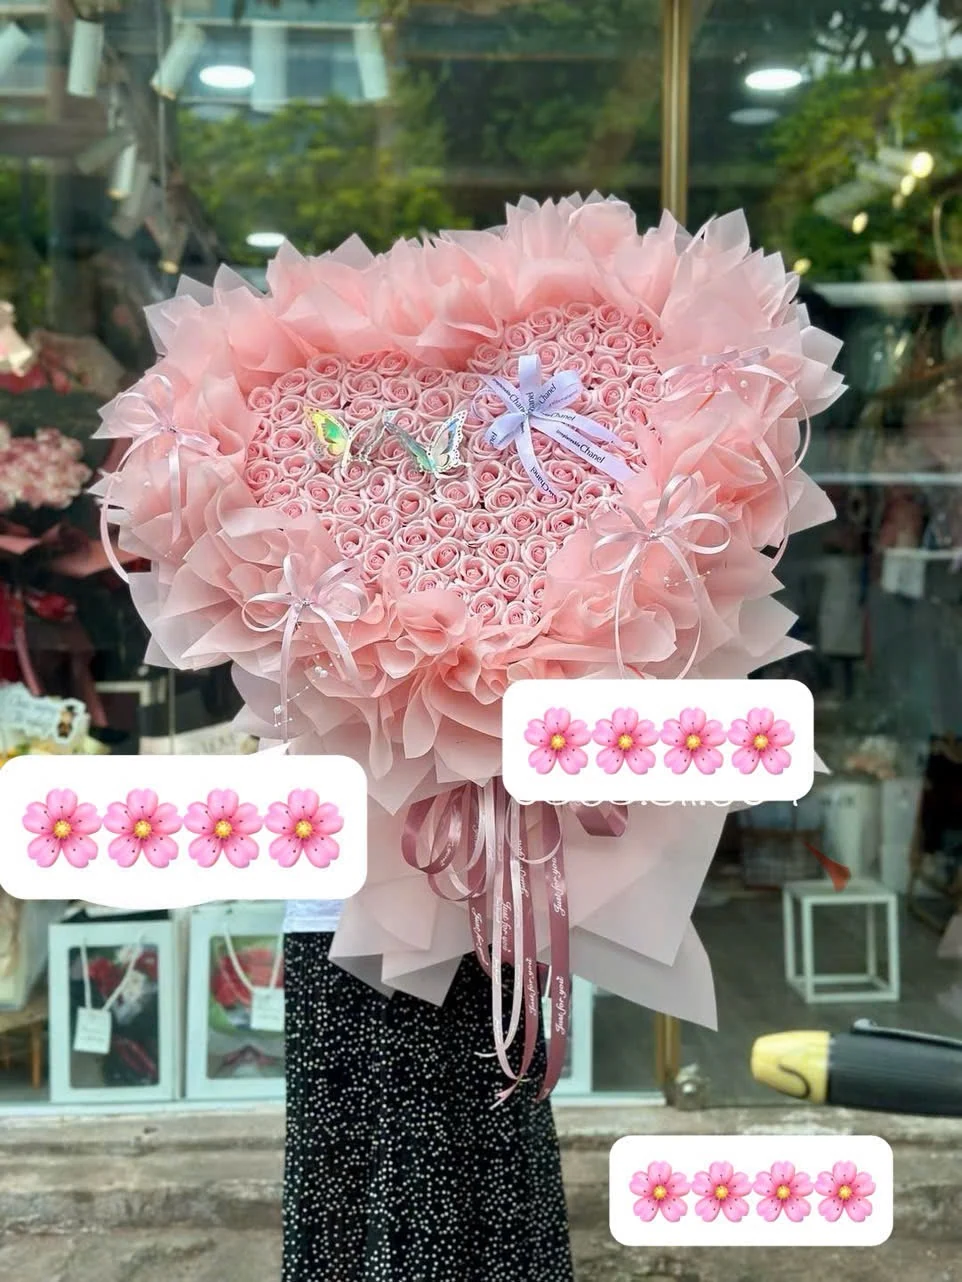
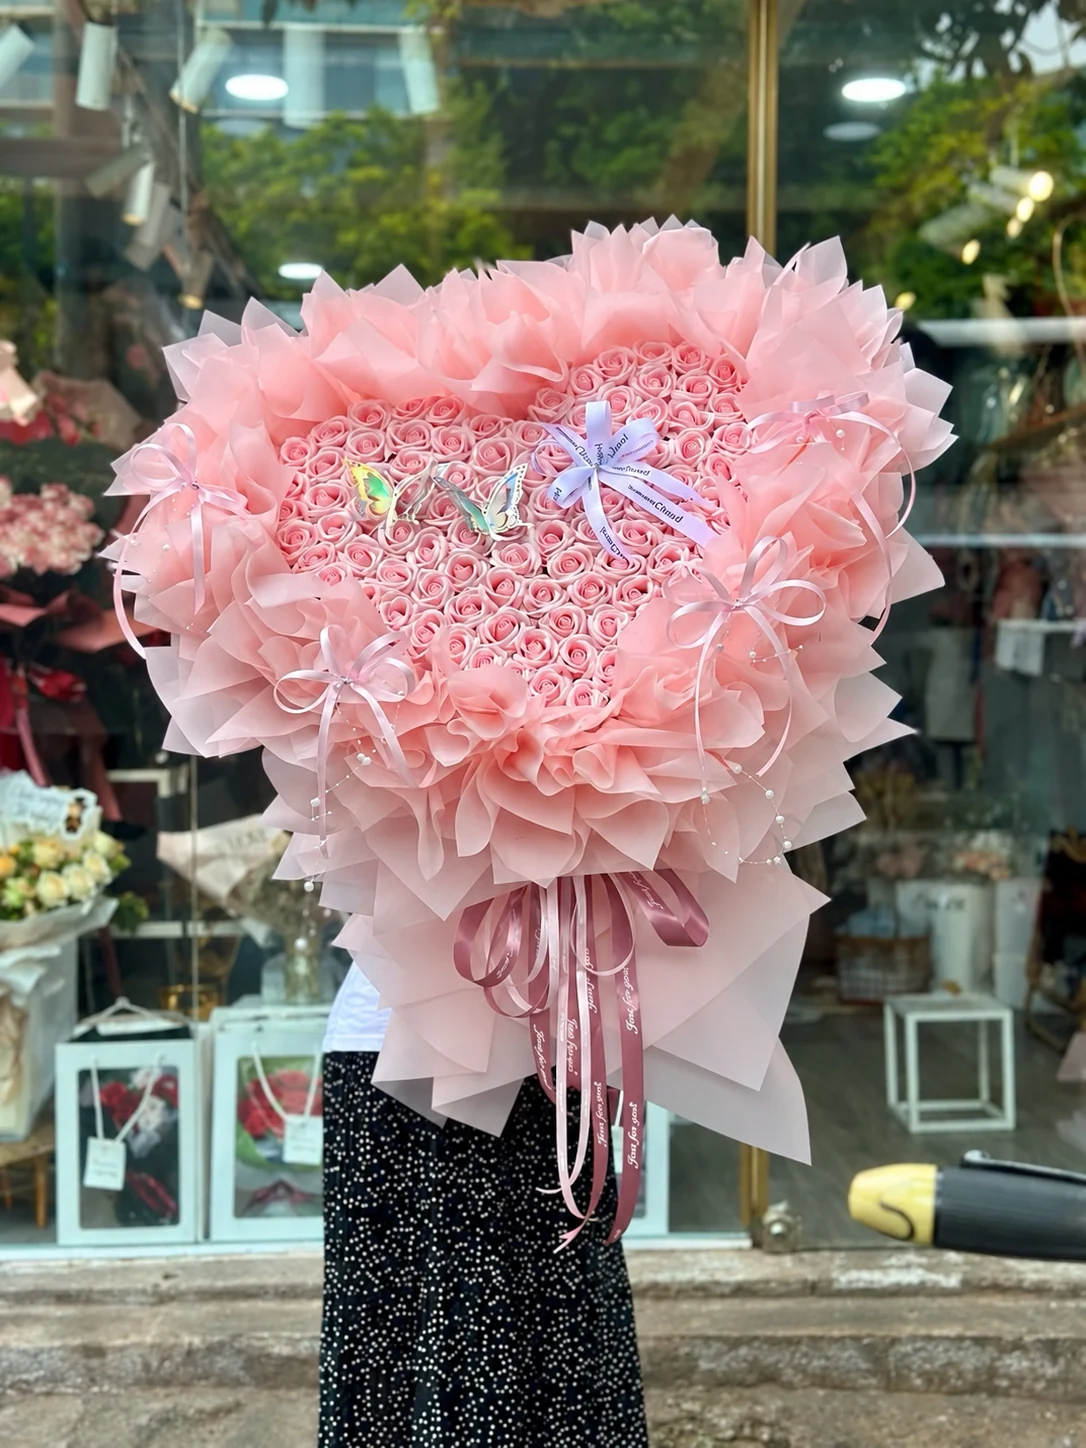
fix: 替換五張已核准的去貼圖作品照

diff --git a/gallery/index.html b/gallery/index.html
@@ -279,7 +279,7 @@
         },
         {
           "@type": "ImageObject",
-          "contentUrl": "https://flower-shop-vn.com/images/gallery/2026/r022.webp",
+          "contentUrl": "https://flower-shop-vn.com/images/gallery/2026/r022.webp?v=7d6c17026e28",
           "caption": "R022 粉色玫瑰造型・層疊包裝"
         },
         {
@@ -309,12 +309,12 @@
         },
         {
           "@type": "ImageObject",
-          "contentUrl": "https://flower-shop-vn.com/images/gallery/2026/b010.webp",
+          "contentUrl": "https://flower-shop-vn.com/images/gallery/2026/b010.webp?v=a0777c3272d7",
           "caption": "B010 粉紫百合・白綠綜合花束"
         },
         {
           "@type": "ImageObject",
-          "contentUrl": "https://flower-shop-vn.com/images/gallery/2026/b011.webp",
+          "contentUrl": "https://flower-shop-vn.com/images/gallery/2026/b011.webp?v=1d1bd042e2de",
           "caption": "B011 向日葵・粉色綜合花束"
         },
         {
@@ -329,7 +329,7 @@
         },
         {
           "@type": "ImageObject",
-          "contentUrl": "https://flower-shop-vn.com/images/gallery/2026/r029.webp",
+          "contentUrl": "https://flower-shop-vn.com/images/gallery/2026/r029.webp?v=587f50b99e05",
           "caption": "R029 桃粉玫瑰・白色包裝"
         },
         {
@@ -434,7 +434,7 @@
         },
         {
           "@type": "ImageObject",
-          "contentUrl": "https://flower-shop-vn.com/images/gallery/2026/r036.webp",
+          "contentUrl": "https://flower-shop-vn.com/images/gallery/2026/r036.webp?v=6080fa221a8f",
           "caption": "R036 粉玫瑰・白色展開包裝"
         },
         {
@@ -560,7 +560,7 @@
             </div>
           </article>
           <article class="case-card portfolio-work" id="work-R036">
-            <a href="/images/gallery/2026/r036.webp" target="_blank" rel="noopener" aria-label="放大作品 R036：粉玫瑰・白色展開包裝"><img src="/images/gallery/2026/r036.webp" alt="粉玫瑰・白色展開包裝" width="591" height="1049" loading="lazy" decoding="async"></a>
+            <a href="/images/gallery/2026/r036.webp?v=6080fa221a8f" target="_blank" rel="noopener" aria-label="放大作品 R036：粉玫瑰・白色展開包裝"><img src="/images/gallery/2026/r036.webp?v=6080fa221a8f" alt="粉玫瑰・白色展開包裝" width="902" height="1600" loading="lazy" decoding="async"></a>
             <div class="case-card-body"><span class="case-category">作品照片</span><p class="work-code">作品 R036</p><h3>粉玫瑰・白色展開包裝</h3><p>粉色玫瑰搭配細長綠葉與白色展開包裝，可參考高低錯落的花面。</p>
               <div class="button-row"><a class="button button-secondary" href="/contact/?work=R036#inquiry">用這款詢價</a><a class="work-permalink" href="#work-R036">作品連結</a></div>
             </div>
@@ -585,7 +585,7 @@
           </article>
 
           <article class="case-card portfolio-work" id="work-R022">
-            <a href="/images/gallery/2026/r022.webp" target="_blank" rel="noopener" aria-label="放大作品 R022：粉色玫瑰造型・層疊包裝"><img src="/images/gallery/2026/r022.webp" alt="粉色玫瑰造型・層疊包裝" width="962" height="1282" loading="lazy" decoding="async"></a>
+            <a href="/images/gallery/2026/r022.webp?v=7d6c17026e28" target="_blank" rel="noopener" aria-label="放大作品 R022：粉色玫瑰造型・層疊包裝"><img src="/images/gallery/2026/r022.webp?v=7d6c17026e28" alt="粉色玫瑰造型・層疊包裝" width="1086" height="1448" loading="lazy" decoding="async"></a>
             <div class="case-card-body"><span class="case-category">作品照片</span><p class="work-code">作品 R022</p><h3>粉色玫瑰造型・層疊包裝</h3><p>粉色玫瑰造型花面搭配多層粉色包裝、緞帶與蝴蝶裝飾，可參考細密花面與柔和層次。</p>
               <div class="button-row"><a class="button button-secondary" href="/contact/?work=R022#inquiry">用這款詢價</a><a class="work-permalink" href="#work-R022">作品連結</a></div>
             </div>
@@ -621,13 +621,13 @@
             </div>
           </article>
           <article class="case-card portfolio-work" id="work-B010">
-            <a href="/images/gallery/2026/b010.webp" target="_blank" rel="noopener" aria-label="放大作品 B010：粉紫百合・白綠綜合花束"><img src="/images/gallery/2026/b010.webp" alt="粉紫百合・白綠綜合花束" width="720" height="1280" loading="lazy" decoding="async"></a>
+            <a href="/images/gallery/2026/b010.webp?v=a0777c3272d7" target="_blank" rel="noopener" aria-label="放大作品 B010：粉紫百合・白綠綜合花束"><img src="/images/gallery/2026/b010.webp?v=a0777c3272d7" alt="粉紫百合・白綠綜合花束" width="901" height="1600" loading="lazy" decoding="async"></a>
             <div class="case-card-body"><span class="case-category">作品照片</span><p class="work-code">作品 B010</p><h3>粉紫百合・白綠綜合花束</h3><p>粉紫色百合搭配淡色花材與延伸枝葉，使用白色包裝及綠色緞帶。</p>
               <div class="button-row"><a class="button button-secondary" href="/contact/?work=B010#inquiry">用這款詢價</a><a class="work-permalink" href="#work-B010">作品連結</a></div>
             </div>
           </article>
           <article class="case-card portfolio-work" id="work-B011">
-            <a href="/images/gallery/2026/b011.webp" target="_blank" rel="noopener" aria-label="放大作品 B011：向日葵・粉色綜合花束"><img src="/images/gallery/2026/b011.webp" alt="向日葵・粉色綜合花束" width="720" height="1280" loading="lazy" decoding="async"></a>
+            <a href="/images/gallery/2026/b011.webp?v=1d1bd042e2de" target="_blank" rel="noopener" aria-label="放大作品 B011：向日葵・粉色綜合花束"><img src="/images/gallery/2026/b011.webp?v=1d1bd042e2de" alt="向日葵・粉色綜合花束" width="901" height="1600" loading="lazy" decoding="async"></a>
             <div class="case-card-body"><span class="case-category">作品照片</span><p class="work-code">作品 B011</p><h3>向日葵・粉色綜合花束</h3><p>向日葵與粉色、奶油色花材搭配白色包裝，可參考多色花面的明亮層次。</p>
               <div class="button-row"><a class="button button-secondary" href="/contact/?work=B011#inquiry">用這款詢價</a><a class="work-permalink" href="#work-B011">作品連結</a></div>
             </div>
@@ -645,7 +645,7 @@
             </div>
           </article>
           <article class="case-card portfolio-work" id="work-R029">
-            <a href="/images/gallery/2026/r029.webp" target="_blank" rel="noopener" aria-label="放大作品 R029：桃粉玫瑰・白色包裝"><img src="/images/gallery/2026/r029.webp" alt="桃粉玫瑰・白色包裝" width="960" height="1280" loading="lazy" decoding="async"></a>
+            <a href="/images/gallery/2026/r029.webp?v=587f50b99e05" target="_blank" rel="noopener" aria-label="放大作品 R029：桃粉玫瑰・白色包裝"><img src="/images/gallery/2026/r029.webp?v=587f50b99e05" alt="桃粉玫瑰・白色包裝" width="1086" height="1448" loading="lazy" decoding="async"></a>
             <div class="case-card-body"><span class="case-category">作品照片</span><p class="work-code">作品 R029</p><h3>桃粉玫瑰・白色包裝</h3><p>桃粉色玫瑰形成圓形花面，搭配白色包裝與垂墜粉色緞帶。</p>
               <div class="button-row"><a class="button button-secondary" href="/contact/?work=R029#inquiry">用這款詢價</a><a class="work-permalink" href="#work-R029">作品連結</a></div>
             </div>
